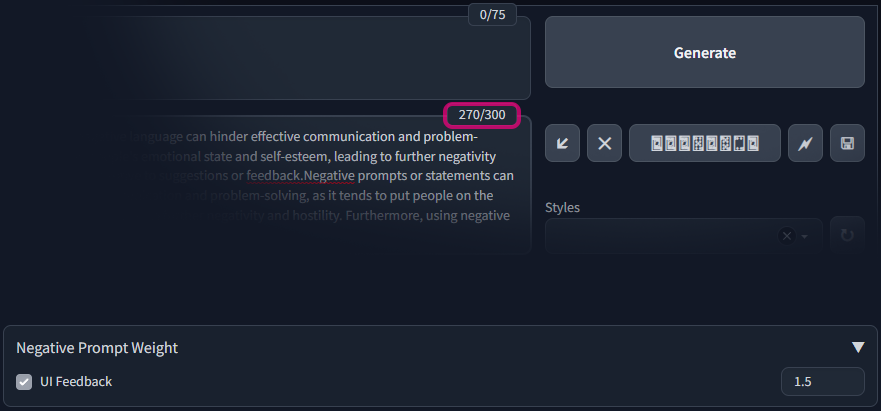
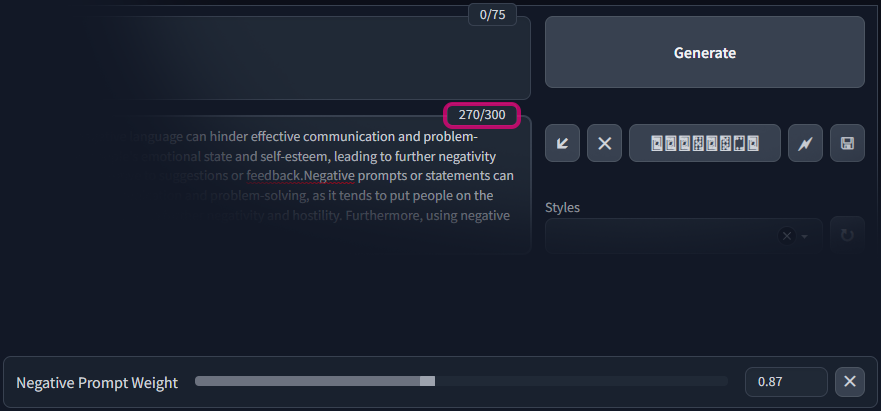
UI overhaul (lol)
Added custom slider and number input with js feedbacks and reset button, had to made accordion "always open".

Changed region(s): [[0.0, 0.8175, 1.0, 0.9927], [0.0, 0.8175, 0.2145, 0.8759], [0.9807, 0.7883, 1.0, 0.8175]]

diff --git a/javascript/setup.js b/javascript/setup.js
@@ -1,0 +1,29 @@
+function setupNPW() {
+  fixAccordion();  
+  fixInputs(); 
+}
+
+function fixInputs() {
+  const npwSlider = document.getElementById("npw-slider");
+  const npwSliderHead = npwSlider.querySelector('.head');
+  npwSliderHead.remove(); 
+
+  let npwNumber = document.getElementById('npw-number');
+  npwNumber = npwNumber.querySelector('input[type="number"]');
+  npwNumber.setAttribute("step", "0.01");
+  npwNumber.value = (1).toFixed(2);
+
+  const newSpan = document.createElement("span");
+  newSpan.innerHTML = "Negative Prompt Weight";
+  const ancestor = npwSlider.parentNode.parentNode.parentNode;
+  ancestor.insertBefore(newSpan, ancestor.firstChild);
+}
+
+function fixAccordion() {
+  const arrow = document.querySelector('#npw .icon');
+  arrow.remove(); 
+  const label = document.querySelector('.open');
+  label.remove(); 
+}
+
+onUiLoaded(setupNPW);

diff --git a/style.css b/style.css
@@ -1,18 +1,33 @@
-#npw input::-webkit-outer-spin-button,
-#npw input::-webkit-inner-spin-button {
-  -webkit-appearance: none;
-  margin: 0;
+#npw span {
+  margin-bottom: 0 !important;
+  font-size: var(--section-header-text-size);
+  min-width: fit-content;
 }
 
 #npw input[type=number] {
-  -moz-appearance: textfield;
   padding: 4px 12px !important;
+}
+
+#npw button {
+  min-width: 30px;
+  max-width: 30px;
+  min-height: fit-content;
+  font-weight: var(--button-large-text-weight);
 }
 
 #npw .gradio-row {
   align-items: center;
+  gap: 0.5em;
 }
 
 #npw .gradio-checkbox {
   margin: 0;
+}
+
+#npw .form {
+  min-width: unset;
+}
+
+#npw-slider {
+  padding: 0 10px !important;
 }

diff --git a/scripts/npw.py b/scripts/npw.py
@@ -16,22 +16,27 @@ class Script(scripts.Script):
         return scripts.AlwaysVisible
 
     def ui(self, is_img2img):
-        with gr.Accordion("Negative Prompt Weight", open=False, elem_id="npw"):                                              
+        with gr.Accordion("Negative Prompt Weight", open=True, elem_id="npw"):                                                          
             with gr.Row(equal_height=True):
                 with gr.Column(scale=100):
-                    ui_feedback = gr.Checkbox(value=True, interactive=True, label="UI Feedback")
-                with gr.Column(scale=1, min_width=84):
-                    weight_input = gr.Number(value=1.0, precision=3, label="Negative Prompt Weight", show_label=False)            
+                    weight_input_slider = gr.Slider(minimum=0.00, maximum=2.00, step=.01, value=1.00, label="Negative Prompt Weight ", interactive=True, elem_id="npw-slider")
+                with gr.Column(scale=1, min_width=120):
+                    with gr.Row():
+                        weight_input = gr.Number(value=1.00, precision=4, label="Negative Prompt Weight", show_label=False, elem_id="npw-number")   
+                        reset_but = gr.Button(value='✕', elem_id='npw-x').style(full_width=False, size='sm')               
 
-            dummy = gr.Checkbox(visible=False)  
-            js = """(v, d) => {
+            js = """(v) => {
                 let t=document.querySelector('#txt2img_negative_token_counter'),
                     i=document.querySelector('#img2img_negative_token_counter');
-                t.style.cssText+=`outline:4px solid rgba(255,0,128,${d*Math.sqrt(Math.abs(v-1))}); border-radius: 0.4em !important;`
-                i.style.cssText+=`outline:4px solid rgba(255,0,128,${d*Math.sqrt(Math.abs(v-1))}); border-radius: 0.4em !important;`
-                }"""                                      
-            weight_input.change(None, [weight_input, ui_feedback], dummy, _js=js)
-            ui_feedback.change(None, [weight_input, ui_feedback], dummy, _js=js)
+                t.style.cssText+=`outline:4px solid rgba(255,0,128,${Math.sqrt(Math.abs(v-1))}); border-radius: 0.4em !important;`
+                i.style.cssText+=`outline:4px solid rgba(255,0,128,${Math.sqrt(Math.abs(v-1))}); border-radius: 0.4em !important;`
+                return v;
+                }"""                
+
+            weight_input.change(None, [weight_input], weight_input_slider, _js=js)
+            weight_input_slider.release(None, weight_input_slider, weight_input, _js="(x) => (x).toFixed(2)")
+            reset_but.click(None, [], [weight_input,weight_input_slider], _js="(x) => [(1).toFixed(2),(1).toFixed(2)]")
+
 
         self.infotext_fields = []        
         self.infotext_fields.extend([
